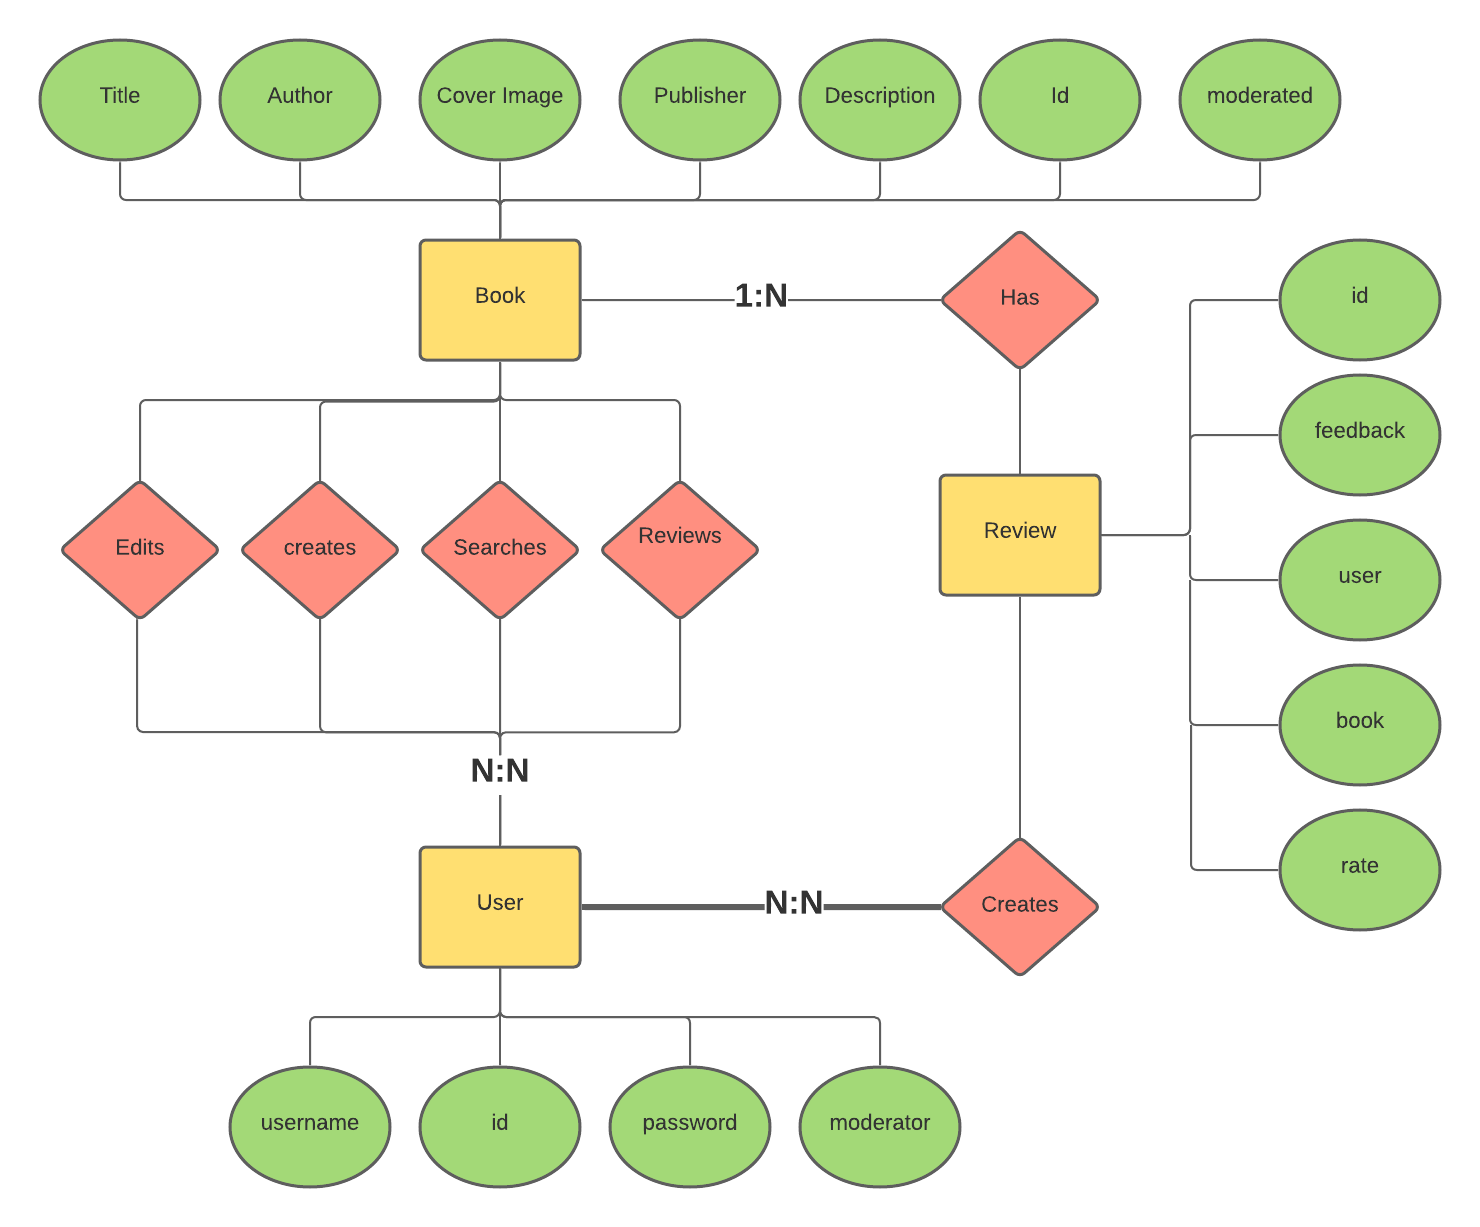
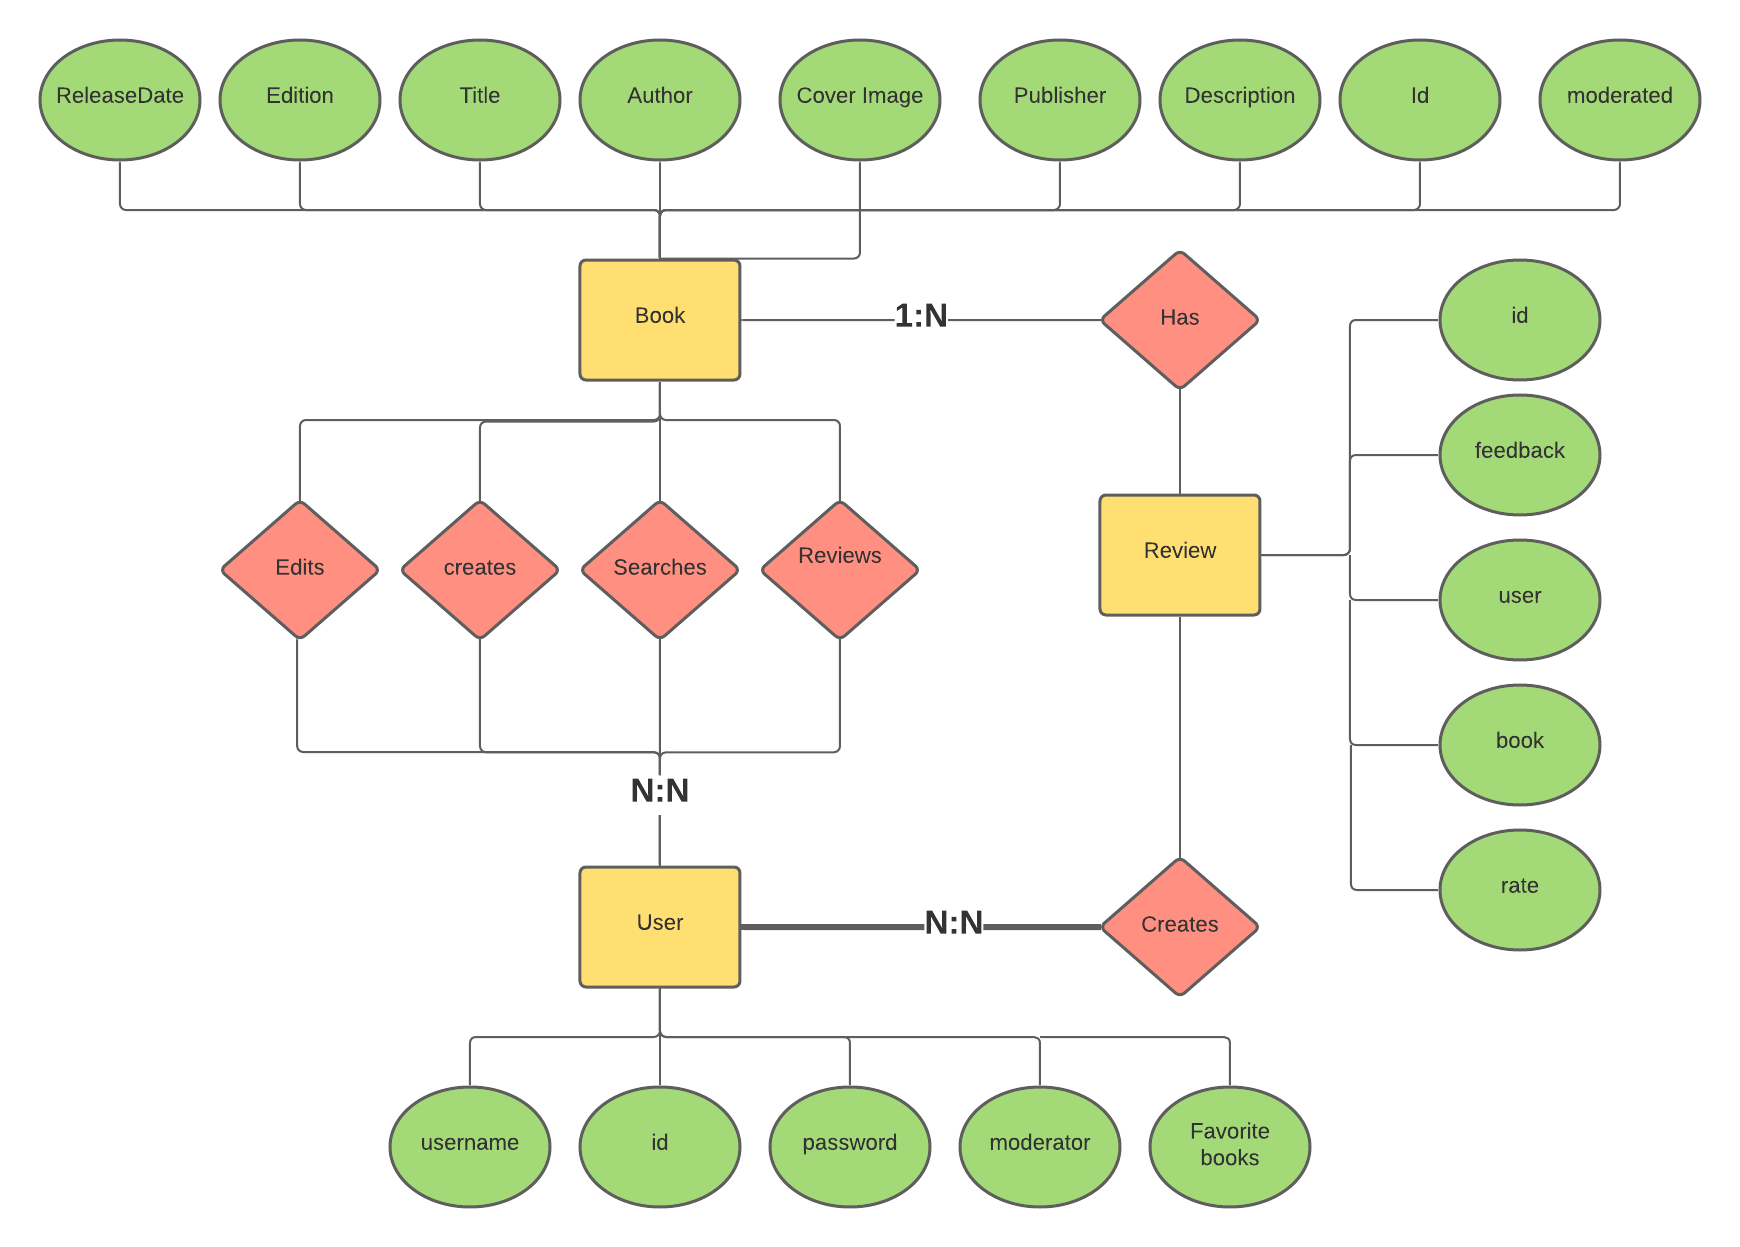
Adding Wireframes for desktop and Mobile
Adding user stories

Updating ER_Diagram with book and user attributes

diff --git a/FEATURES.md b/FEATURES.md
@@ -2,10 +2,44 @@ Features & User Stories
 ---
 
 
-# Features
+## UX
 
 
+## Features
 
 
-# Features left to implement 
+## Features left to implement 
+
+- As a User I want to search for books without having to create a user.
+
+- As want to be able to create a user in order to create books and leave reviews
+
+- As a user I can search for books
+
+- As a user I can Add new books
+
+- As a user I can Edit book details
+
+- As a Moderator I can review book information and tag is a validated
+
+- As a Moderator I can delete books
+
+- As a User I can  Rate and Review Books.
+
+- As a User I can share/recommend this book to a friend
+
+- As a User I can edit or delete My own review 
+
+- As a User I have a profile page with my details and reviews I left.
+
+- As a User I want to have a list with my favorite books and I want to see that on my profile page
+
+-  As a user if a search doesn't return a book, I want a quick link to create this new book entry.
+
+-  As a Developer I want the site to have a responsive interface with a sensible colorScheme
+
+-  As a Developer I want a Navigation Bar on the top of the page. 
+
+- As a developer I want to hide the sign-up and login button once the user finishes authentication
+
 

diff --git a/README.md b/README.md
@@ -3,14 +3,12 @@ The Bookshelf
 
 The Bookshelf site: [visit here](#the-bookshelf).
 
+A project to review books you read, leave reviews, rate your best reads. Share your favourite choices.
+
 #### Description
 
 
 ## UX
-
-Description in progress
-
-
 
 ### color Scheme & Typography 
 
@@ -30,19 +28,17 @@ Using Materilize for a responsive front-end.
 
 #### Mobile view 
 
-1. [Home]()
-2. [Login]()
-3. [Register]()
-4. [Book]()
-5. [Profile]()
+- [Login](wireframes/Mobile/Login_Mobile.png)
+- [Register](wireframes/Mobile/Register_Mobile.png)
+- [Book](wireframes/Mobile/Book_Mobile.png)
+- [Profile](wireframes/Mobile/Profile_Mobile.png)
 
 #### Desktop view 
 
-1. [Home]()
-2. [Login]()
-3. [Register]()
-4. [Book]()
-5. [Profile]()
+- [Login](wireframes/Desktop/Login.png) 
+- [Register](wireframes/Desktop/Register.png)
+- [Book](wireframes/Desktop/Book.png)
+- [Profile](wireframes/Desktop/Profile.png)
 
 ## Features 
 
